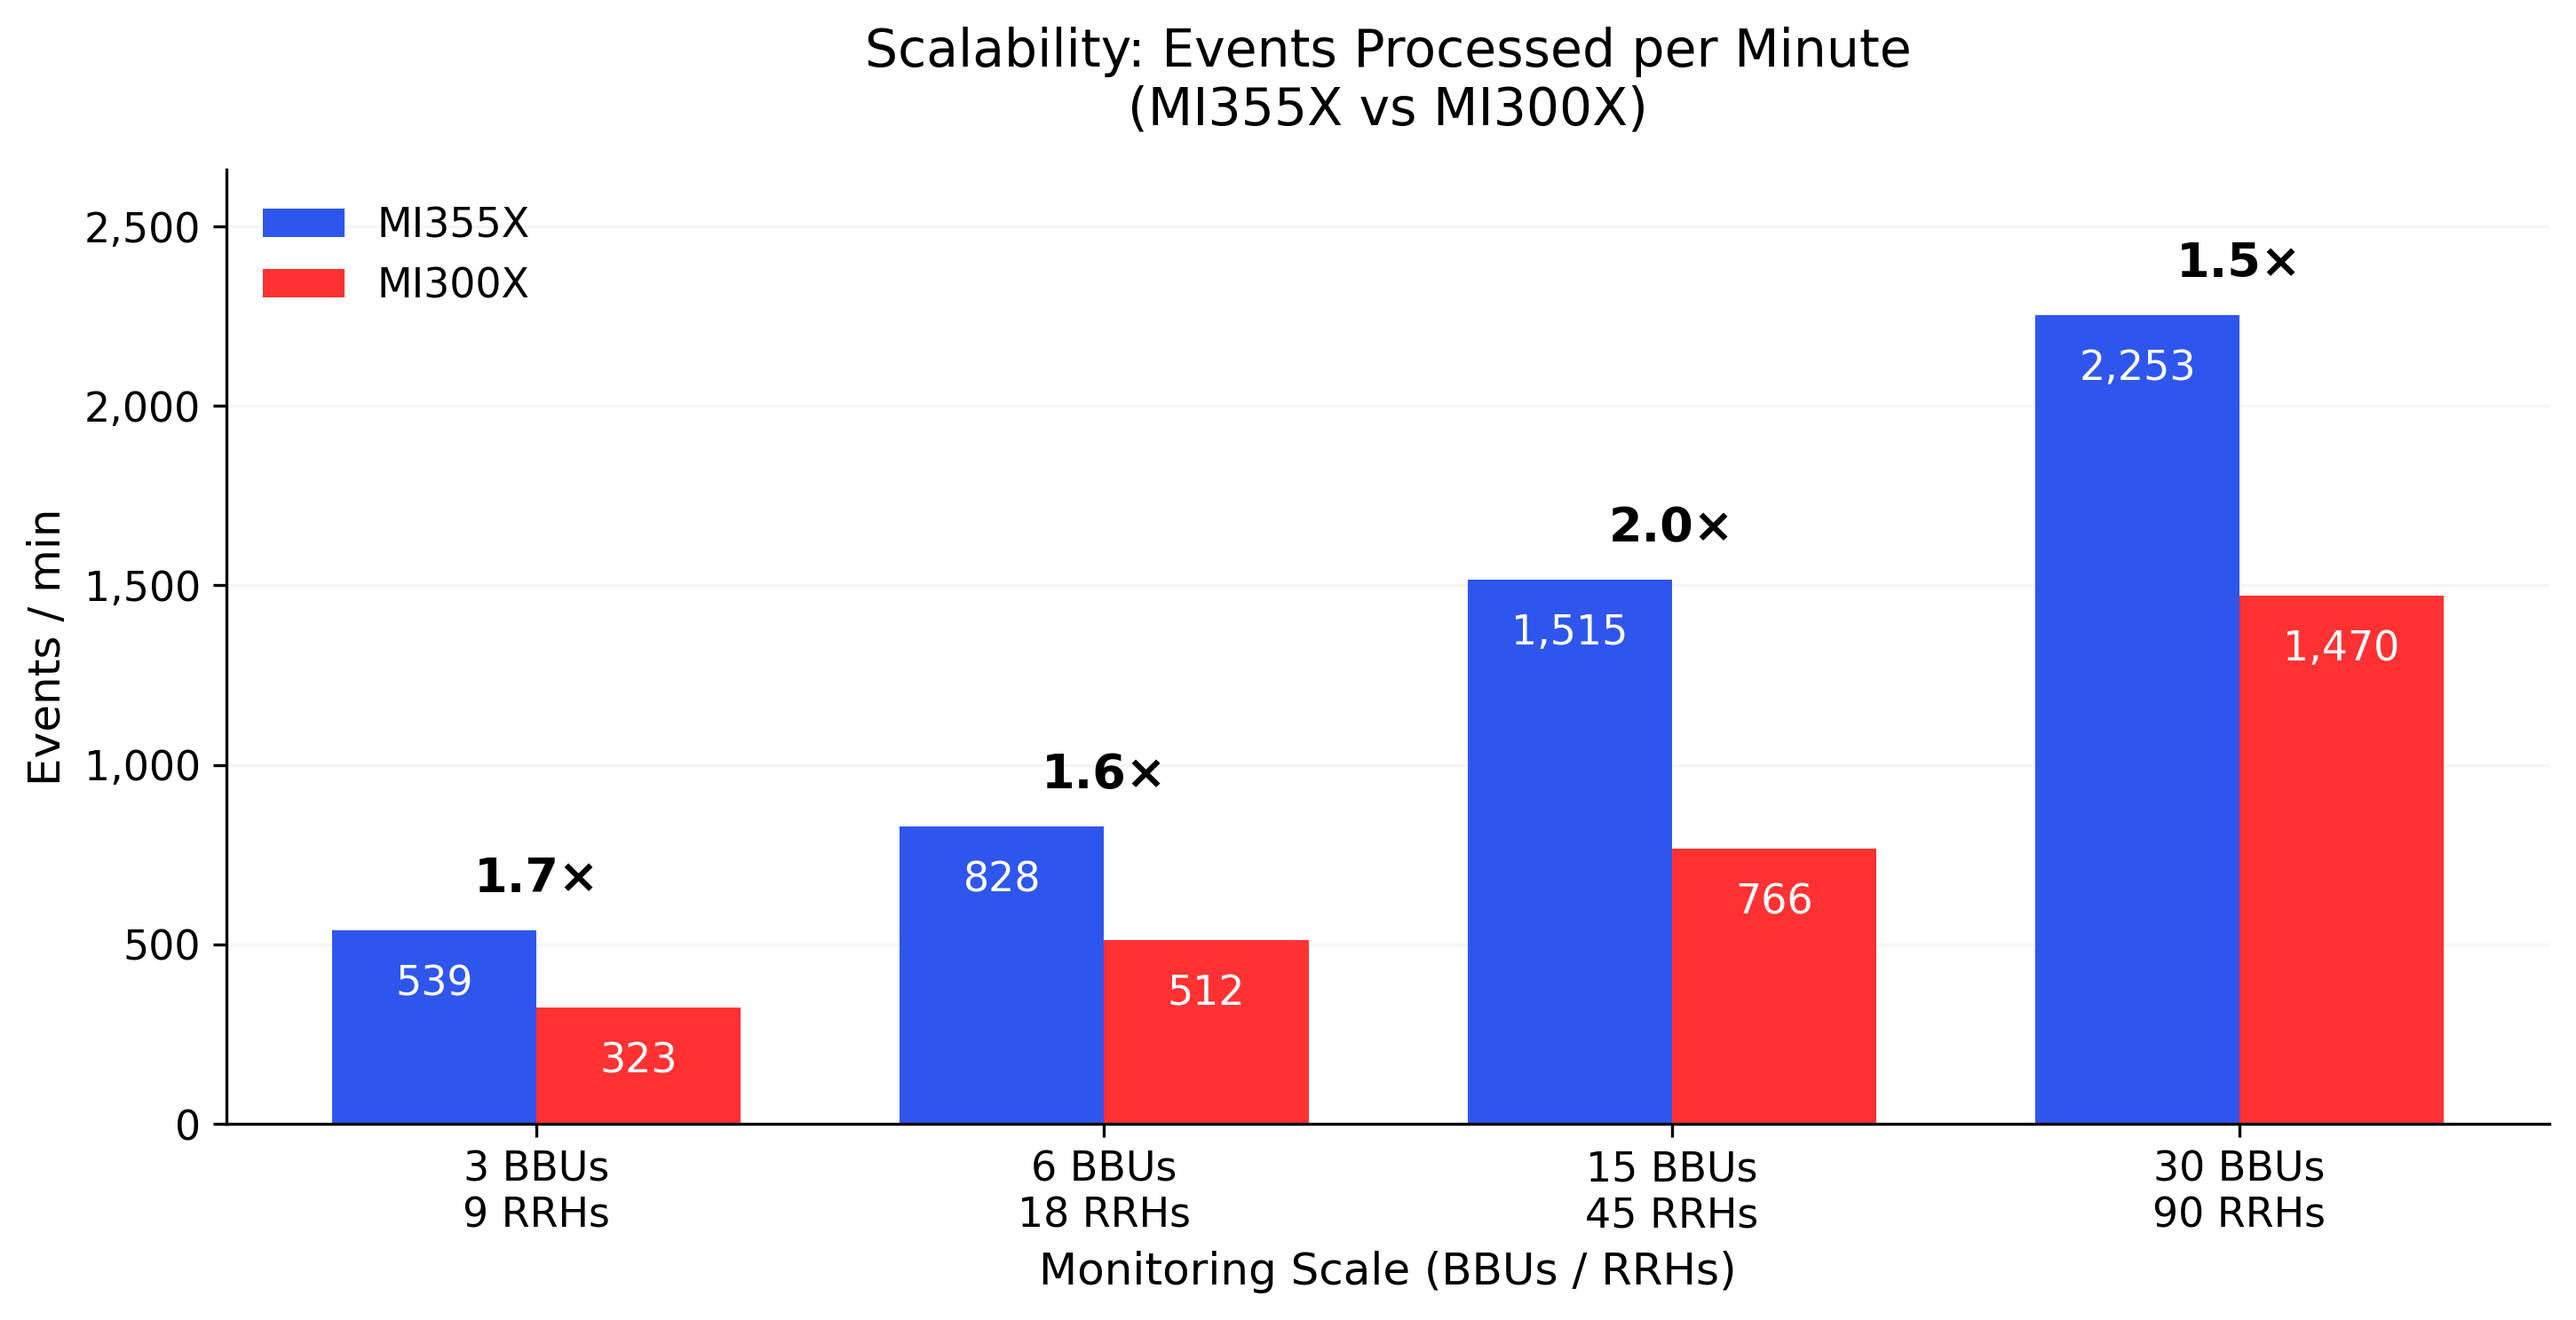
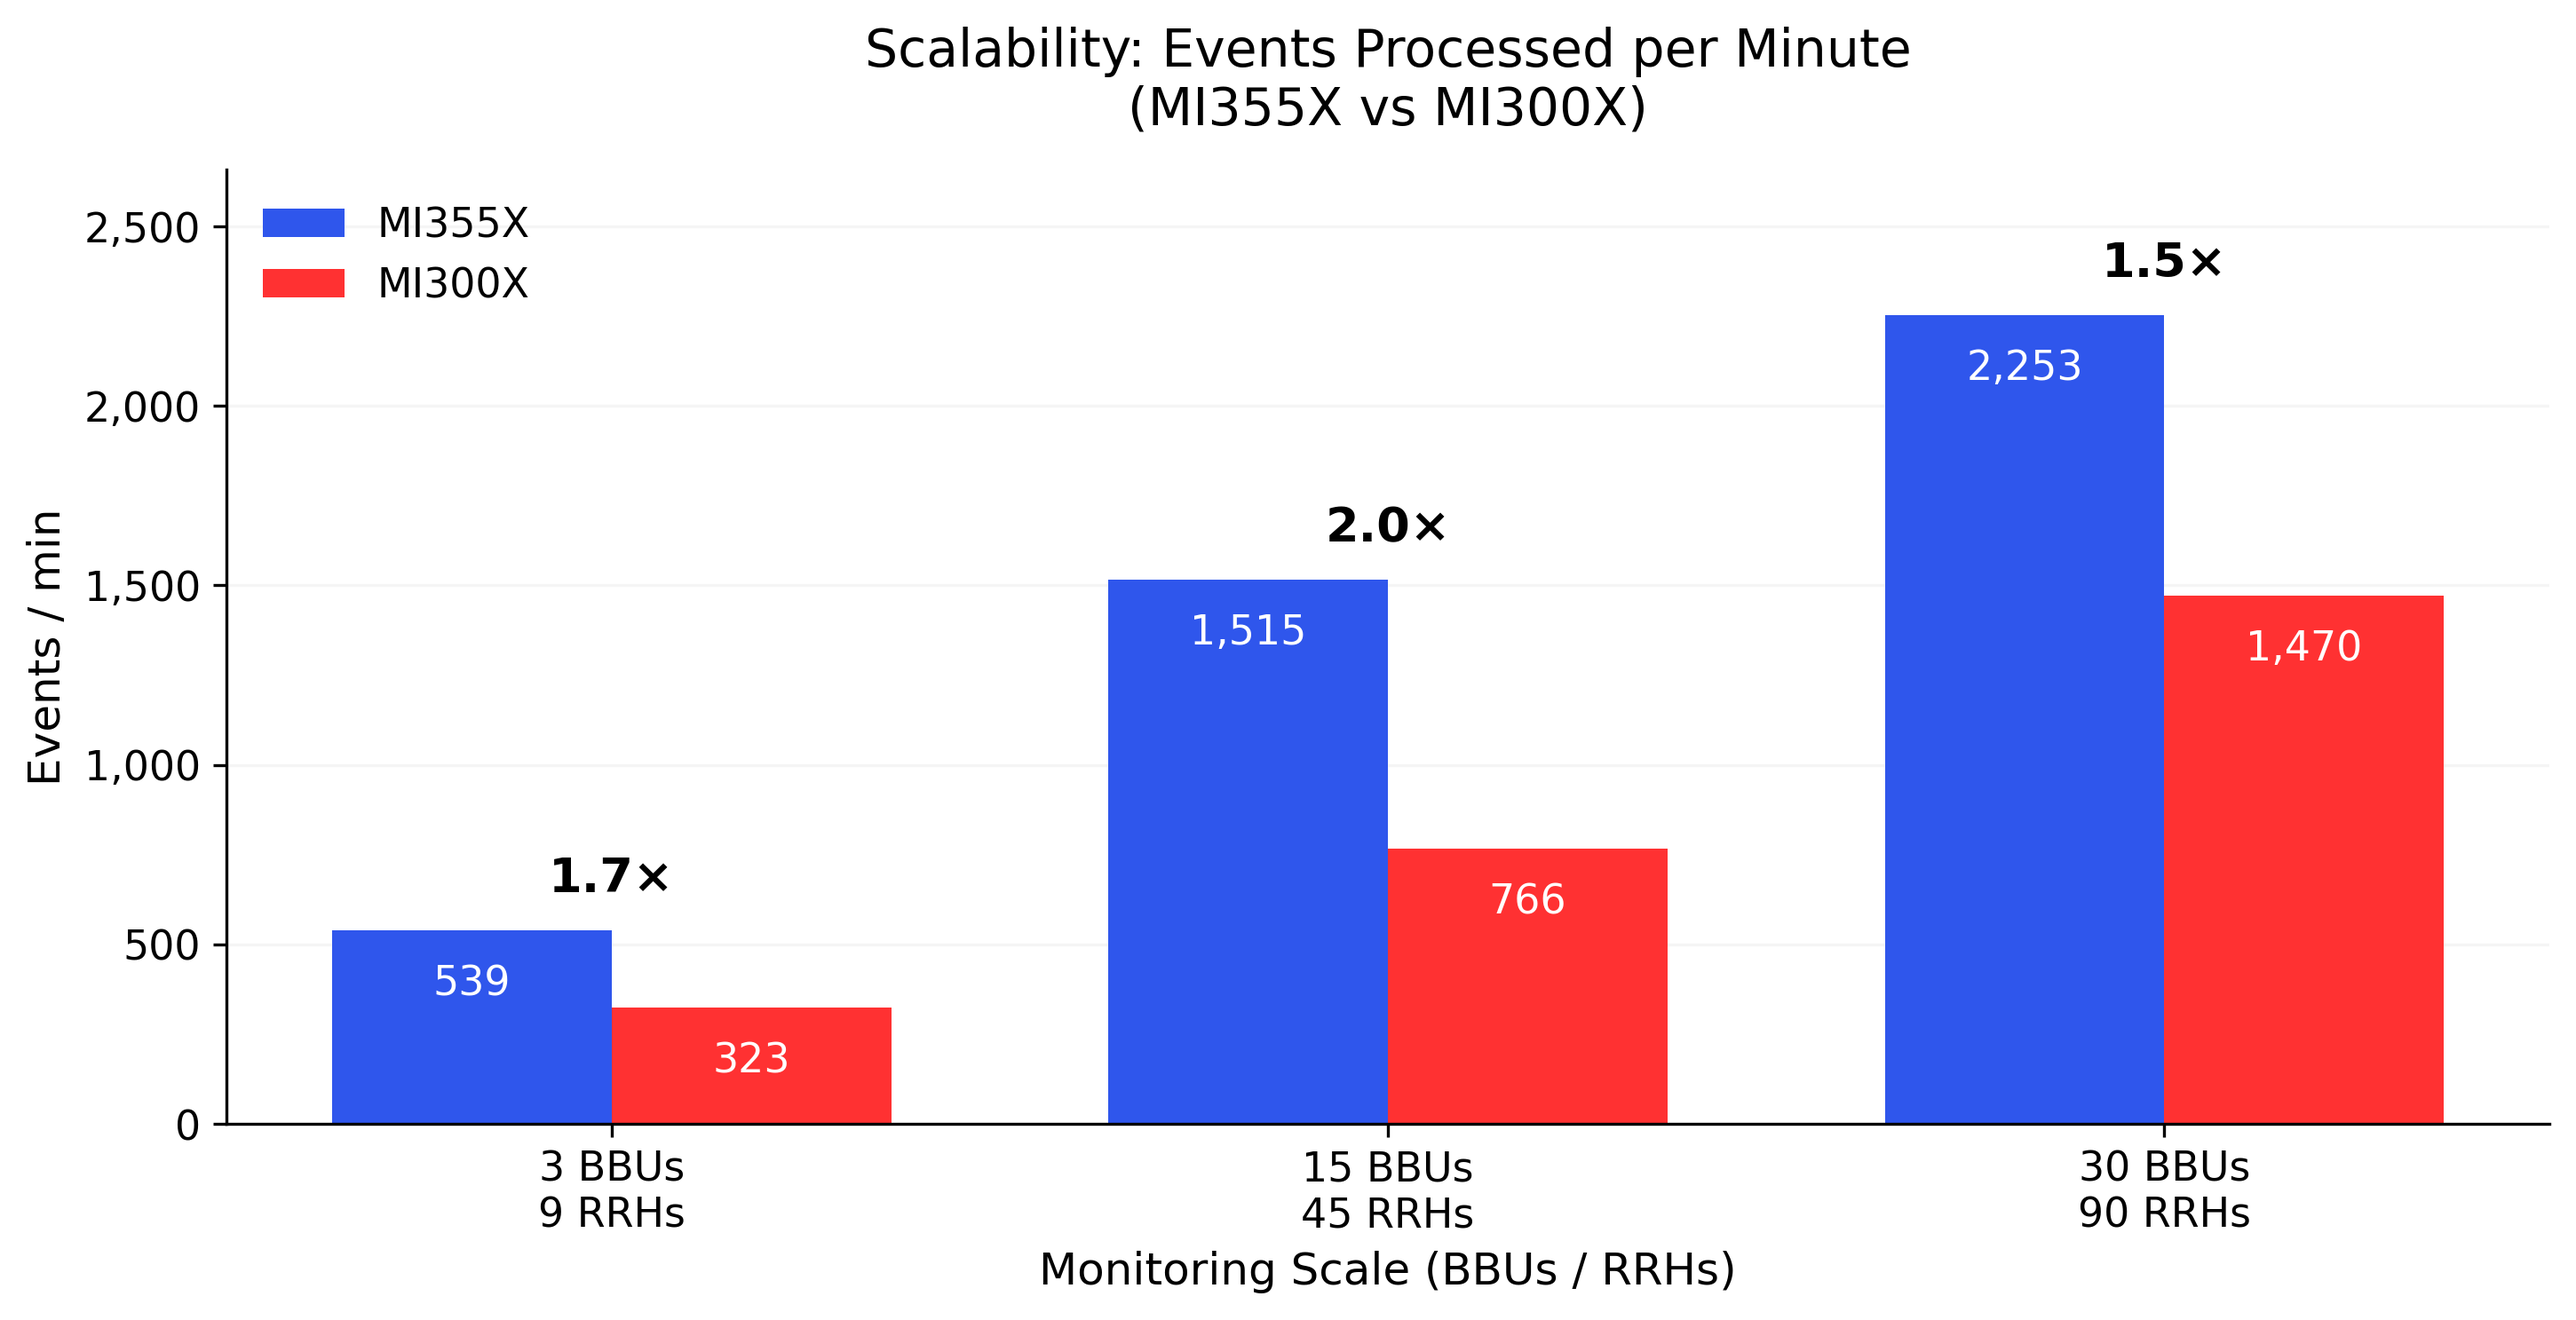
graphs

Changed region(s): [[0.2792, 0.1856, 0.9307, 0.928], [0.1551, 0.6496, 0.2792, 0.928]]

diff --git a/MetrumAI/Telco/graphs.py b/MetrumAI/Telco/graphs.py
@@ -23,6 +23,20 @@ tokens_355x = np.array([2231, 2897, 6823, 7773])
 tokens_300x = np.array([2078, 3954, 4342, 5476])
 
 # ============================================================
+# Remove 6 BBUs / 18 RRHs point
+# ============================================================
+mask = bbus != 6  # drop the 2nd point
+
+bbus = bbus[mask]
+rrhs = rrhs[mask]
+
+events_355x = events_355x[mask]
+events_300x = events_300x[mask]
+
+tokens_355x = tokens_355x[mask]
+tokens_300x = tokens_300x[mask]
+
+# ============================================================
 # Global style
 # ============================================================
 plt.rcParams.update({
